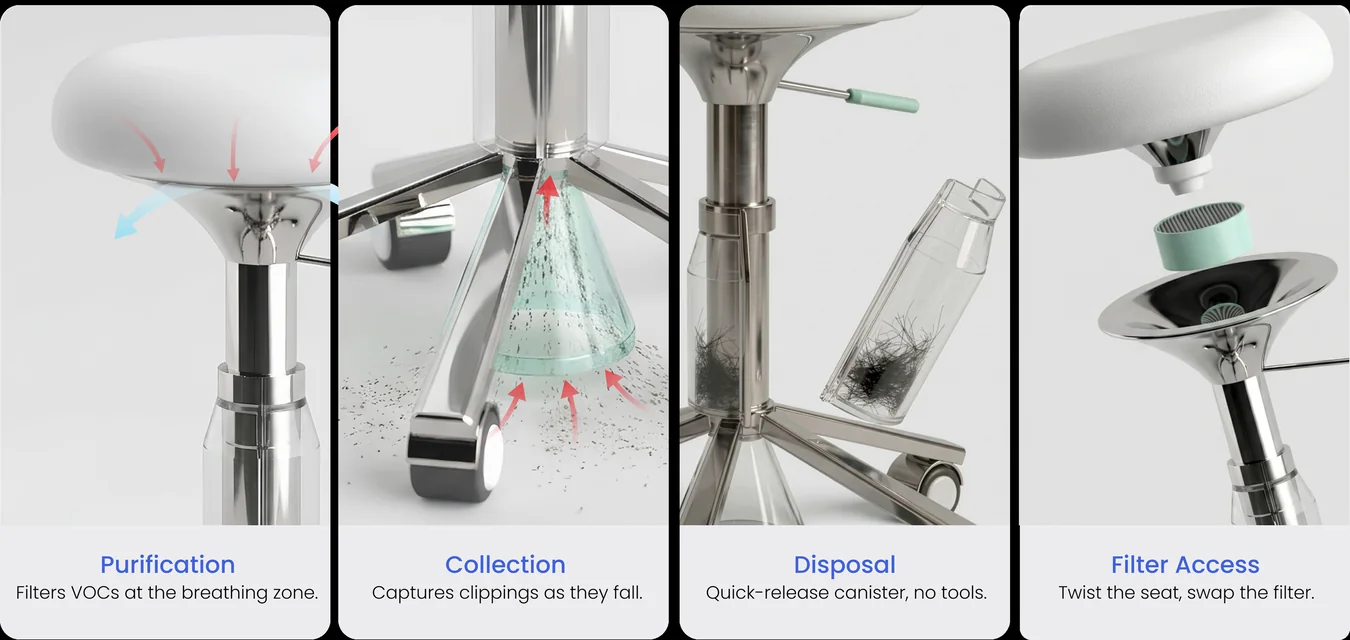
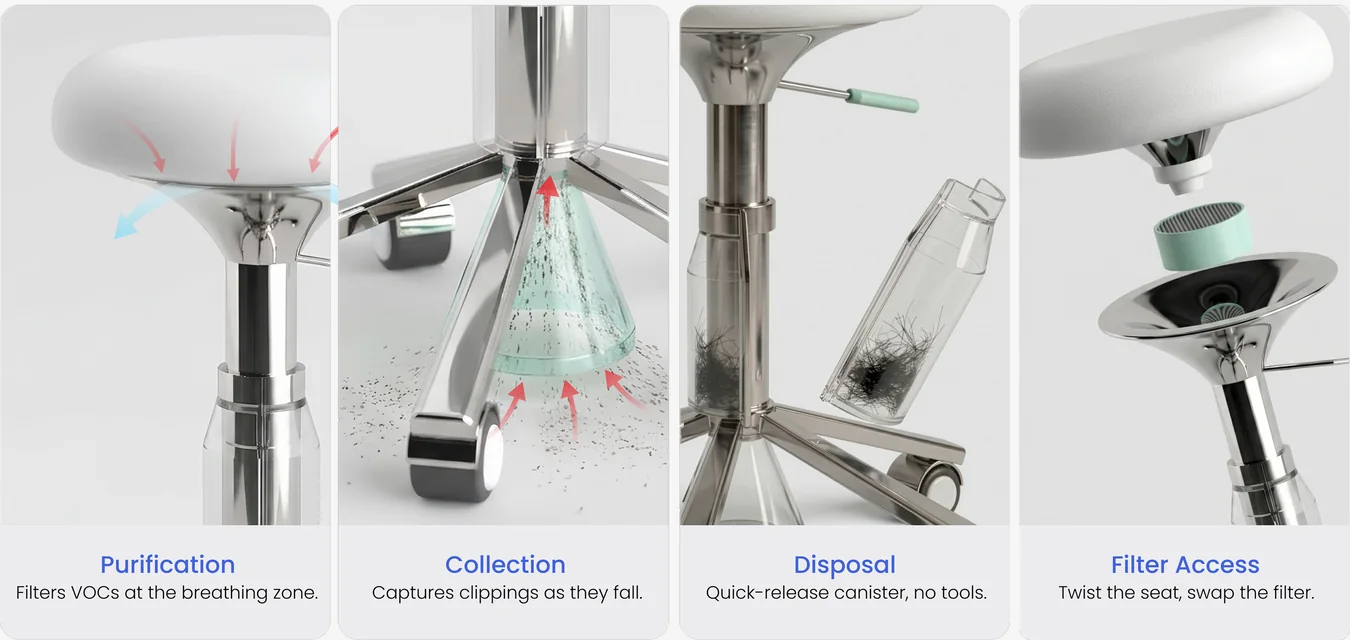
fix(goodmood): 滑軌兩層圖片改為滿版對齊、標籤縮小，並修正端點語意的註解
三件事：

1. 拿掉兩層圖片的所有裁切參數，改成單純滿版
   先前照 Figma 的 111.51% / 132.35% / left −5.8% / top −20.9% 實作，
   外加 before 那一層的 calc(50% + 8px) 偏移。那組數值會把圖放大裁切，
   四格畫面只看得到兩格，而且兩層對不齊。
   改成 width/height 100% + object-fit: cover，兩層完全重合。
   實測 1440：after [98.9,182.7,1242.1,591.1]、before 同，對齊 true。
   ⚠ Figma 那組百分比已作廢，不要改回去（註解裡也記了一筆）。

2. Before / After 標籤縮小
   文字 24 → 16px；膠囊不再寫死 124×44，改成 height 32 + padding-inline 16，
   寬度自動、兩個標籤各自合身。圓角 50、底色 #DCE8EF 不變。
   距外框上緣 48、Before 距左 58、After 距右 50 不變。
   實測：Before 83×31.9、After 69.6×31.9、字級 15.98、圓角 49.93。

3. slider-after 來源圖重新匯出（舊檔背景是純黑）
   路徑檔名不變，程式沒有配合改動。

另外修正端點語意的註解——不是改行為：
--gm-slider-pos 是「分隔線的位置」（0 = 最左，100 = 最右）。左側顯示
Before、右側顯示 After，所以 0% 看到的是整片 After、100% 是整片 Before。
這是分隔線位置的必然結果，不是端點寫反。**不要改成 100 - pos**，那會讓
把手的移動方向和拉桿相反。
input 的 aria-label 一併改成描述方向，不再只讓螢幕閱讀器播報一個容易
誤解的數字（那個值是分隔線位置，不是完成度百分比）。

Claude-Session: https://claude.ai/code/session_017N6vJ2hLsP9fhypWRaYQMW

diff --git a/components/work/goodmood/goodmood.css b/components/work/goodmood/goodmood.css
@@ -710,7 +710,8 @@
 }
 
 /* 兩層疊在同一個位置。下層＝Before（整張完整），上層＝After（用 clip-path
-   露出左側 --gm-slider-pos%）。0% 全是 Before、100% 全是 After。 */
+   露出右側）。--gm-slider-pos 是分隔線的位置（0 = 最左，100 = 最右），
+   所以 0% 看到的是整片 After、100% 是整片 Before——見下面那段長註解。 */
 .gm-slider-layer {
   position: absolute;
   inset: 0;
@@ -740,8 +741,7 @@
   background: #fafafa;
 }
 
-/* 圖片框：1244 × 592，距外框上緣 112px。
-   ⚠ before 那一框水平不是置中，是 calc(50% + 8px)——見下方裁切參數的說明。 */
+/* 圖片框：1244 × 592，距外框上緣 112px。兩層都是單純置中，沒有任何偏移。 */
 .gm-slider-media {
   position: absolute;
   top: 8.3333cqw;   /* 112/1344 */
@@ -752,36 +752,23 @@
   overflow: hidden;
 }
 
-.gm-slider-layer--before .gm-slider-media {
-  left: calc(50% + 0.5952cqw); /* 8/1344 */
-}
-
-/* ⚠⚠ 兩張圖的裁切參數在 Figma 上**刻意不同**，這裡原樣照做，
-   **不要「統一成滿版」**：
-     after ：寬 100%、高 114.24%、top −14.23%
-     before：寬 111.51%、高 132.35%、top −20.9%、left −5.8%
-   原因：這樣兩張的四宮格在視覺上才會對齊。滑軌最怕的就是兩張沒對齊——
-   滑過去的瞬間內容會跳，對比就失去意義（使用者 2026-09-02 指示照抄）。 */
+/* ⚠⚠ 兩層都是單純滿版、完全對齊，**沒有任何偏移或縮放**。
+   曾照 Figma 的裁切百分比實作（after 100%/114.24%/top −14.23%；
+   before 111.51%/132.35%/top −20.9%/left −5.8%，外加圖片框
+   calc(50% + 8px)），導致放大裁切，四格只看得到兩格。
+   2026-09-02 改為兩層滿版對齊。**不要再照 Figma 那組百分比改回去。**
+   為什麼那組百分比是錯的：來源圖 2700×1280（比例 2.109）與顯示框
+   1244×592（比例 2.101）幾乎相同，任何非 100% 的縮放都只是放大再裁掉。
+   Figma 上那些數字是畫布操作的殘留值，不是規格。 */
 .gm-slider-media img {
   position: absolute;
+  inset: 0;
   display: block;
-  max-width: none;
+  width: 100%;
+  height: 100%;
+  object-fit: cover;
   user-select: none;
   -webkit-user-drag: none;
-}
-
-.gm-slider-layer--after .gm-slider-media img {
-  width: 100%;
-  height: 114.24%;
-  top: -14.23%;
-  left: 0;
-}
-
-.gm-slider-layer--before .gm-slider-media img {
-  width: 111.51%;
-  height: 132.35%;
-  top: -20.9%;
-  left: -5.8%;
 }
 
 /* 標籤膠囊 124×44、圓角 50、#DCE8EF、距外框上緣 48。
@@ -794,14 +781,17 @@
 .gm-slider-tag {
   position: absolute;
   top: 3.5714cqw;      /* 48/1344 */
-  width: 9.2262cqw;    /* 124/1344 */
-  height: 3.2738cqw;   /* 44/1344 */
-  border-radius: 3.7202cqw; /* 50/1344 */
+  /* ⚠ 寬度自動、由內距撐開，不再寫死 124×44（使用者 2026-09-02）。
+     ⚠ 單位仍用 cqw 而不是字面的 px：外框會跟著視窗等比縮，標籤寫死 px
+     的話在 1155 會相對變大、跟旁邊的圖失去比例關係。換算基準同樣是 1344。 */
+  height: 2.381cqw;         /* 32/1344 */
+  padding-inline: 1.1905cqw; /* 16/1344 */
+  border-radius: 3.7202cqw;  /* 50/1344，高度 32 之下等於全圓角 */
   background: #dce8ef;
   display: flex;
   align-items: center;
   justify-content: center;
-  font-size: 1.7857cqw; /* 24/1344 */
+  font-size: 1.1905cqw; /* 16/1344 */
   font-weight: 400;
   color: #000;
   pointer-events: none;

diff --git a/components/work/goodmood/MakingAssets01.jsx b/components/work/goodmood/MakingAssets01.jsx
@@ -163,8 +163,11 @@ export default function MakingAssets01() {
         </figure>
 
         {/* ---------- 前後對比滑軌（Figma：after 3395:3482 / before 3395:3489）----------
-            ⚠ 疊層順序：下層 Before（整張完整）、上層 After（clip-path 露出左側）。
-            0% 全是 Before、100% 全是 After。
+            ⚠ 疊層順序：下層 Before（整張完整）、上層 After（clip-path 露出右側）。
+            --gm-slider-pos 是分隔線的位置（0 = 最左，100 = 最右）。
+            左側顯示 Before、右側顯示 After，所以 0% 看到的是整片 After、
+            100% 是整片 Before。這是分隔線位置的必然結果，不是端點寫反。
+            不要改成 100 - pos——那會讓把手的移動方向和拉桿相反。
             ⚠ 兩個標籤各自住在自己那一層裡，不拉出來共用——上層被 clip 的時候，
             After 的標籤要跟著一起被切掉才對。
             ⚠ 底色 / 邊框 / 圓角 / overflow 只掛在最外層 .gm-slider，
@@ -188,7 +191,7 @@ export default function MakingAssets01() {
             <span className="gm-slider-tag gm-slider-tag--before">Before</span>
           </div>
 
-          {/* 上層：After —— 最終版，用 clip-path 露出左側 sliderPos% */}
+          {/* 上層：After —— 最終版，用 clip-path 露出右側 (100 - sliderPos)% */}
           <div className="gm-slider-layer gm-slider-layer--after">
             <div className="gm-slider-media">
               {/* eslint-disable-next-line @next/next/no-img-element */}
@@ -207,6 +210,9 @@ export default function MakingAssets01() {
             <span className="gm-slider-handle-bar" />
           </div>
 
+          {/* ⚠ aria-label 用文字描述方向，不要只讓螢幕閱讀器播報一個容易誤解的數字：
+              這個 <input> 的值是**分隔線位置**，不是「完成度百分比」，單念「80%」
+              會被理解成反的（使用者 2026-09-02 指示）。 */}
           <input
             className="gm-slider-input"
             type="range"
@@ -215,7 +221,7 @@ export default function MakingAssets01() {
             step={1}
             value={sliderPos}
             onChange={(e) => setSliderPos(Number(e.target.value))}
-            aria-label="Before and after comparison: drag to reveal more of the raw AI output on the left, or the finished version on the right"
+            aria-label="Before and after comparison slider position. Move left to see the finished version, move right to see the raw AI output."
           />
         </div>
       </div>
